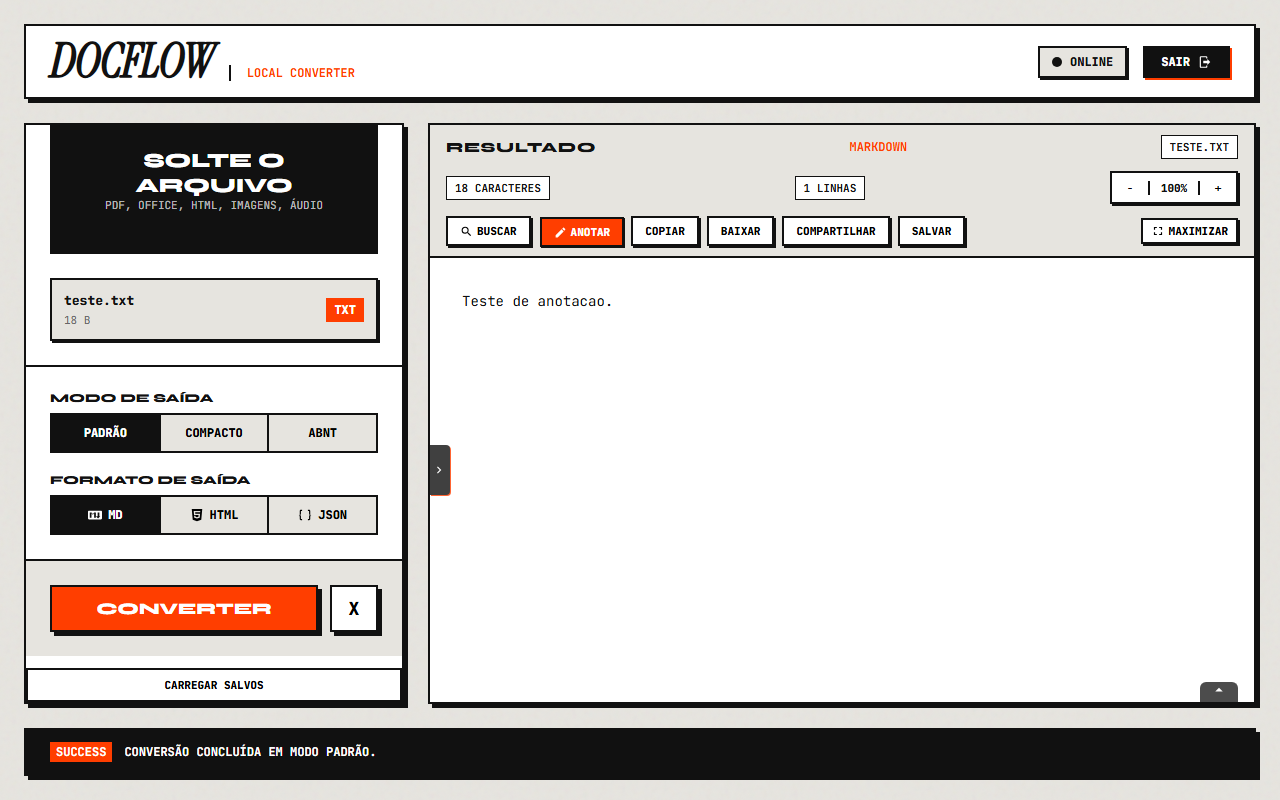
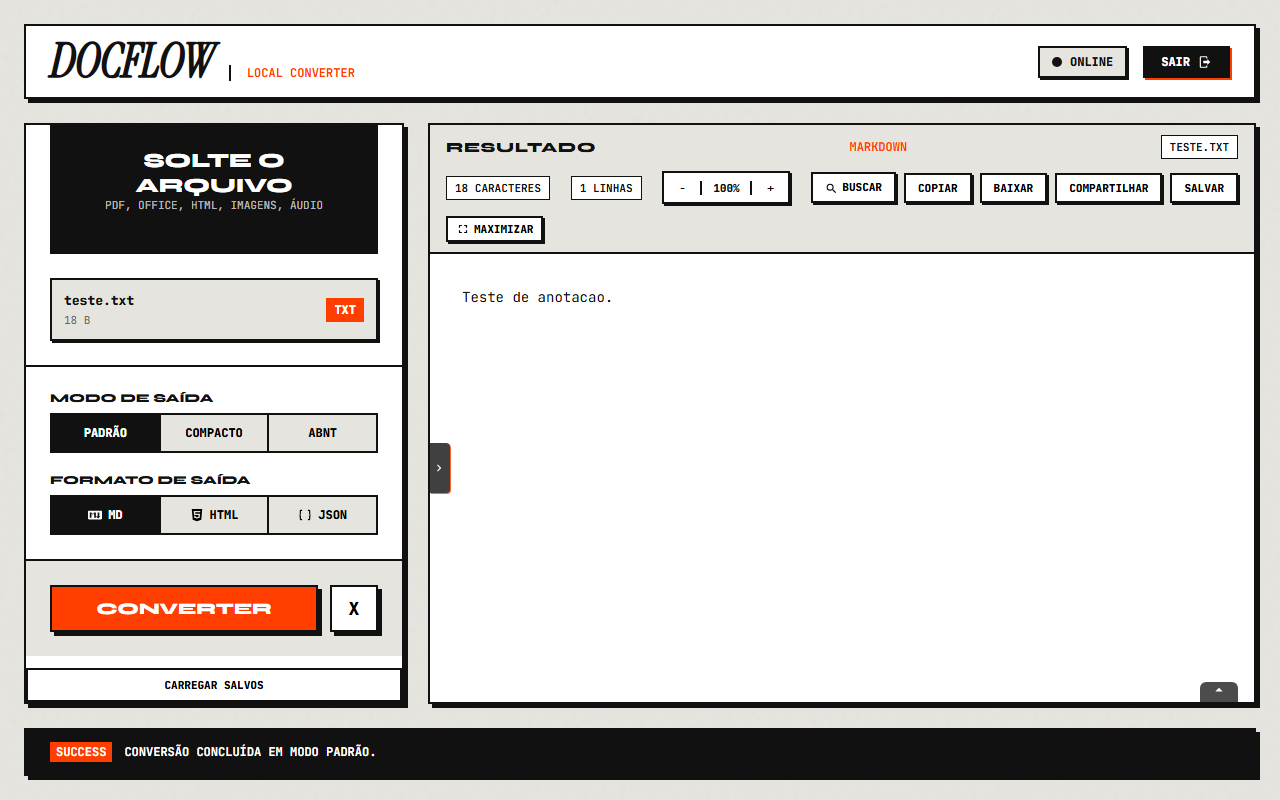
button

Changed region(s): [[0.3438, 0.1875, 0.9688, 0.4062]]

diff --git a/interface.html b/interface.html
@@ -2162,9 +2162,6 @@
                             <button class="tool-btn" id="searchToggleBtn" type="button" disabled title="Buscar no texto (Ctrl+F)">
                                 <svg width="13" height="13" viewBox="0 0 24 24" fill="currentColor" style="vertical-align:middle;margin-right:4px"><path d="M15.5 14h-.79l-.28-.27A6.471 6.471 0 0 0 16 9.5 6.5 6.5 0 1 0 9.5 16c1.61 0 3.09-.59 4.23-1.57l.27.28v.79l5 4.99L20.49 19l-4.99-5zm-6 0C7.01 14 5 11.99 5 9.5S7.01 5 9.5 5 14 7.01 14 9.5 11.99 14 9.5 14z"/></svg>Buscar
                             </button>
-                            <button class="tool-btn" id="annotToggleBtn" type="button" disabled title="Ativar/Desativar painel de anotações">
-                                <svg width="13" height="13" viewBox="0 0 24 24" fill="currentColor" style="vertical-align:middle;margin-right:4px"><path d="M3 17.25V21h3.75L17.81 9.94l-3.75-3.75L3 17.25zM20.71 7.04c.39-.39.39-1.02 0-1.41l-2.34-2.34c-.39-.39-1.02-.39-1.41 0l-1.83 1.83 3.75 3.75 1.83-1.83z"/></svg>Anotar
-                            </button>
                             <button class="tool-btn" id="copyBtn" type="button" disabled>Copiar</button>
                             <button class="tool-btn" id="downloadBtn" type="button" disabled>Baixar</button>
                             <button class="tool-btn" id="shareBtn" type="button" disabled>Compartilhar</button>
@@ -2716,7 +2713,15 @@
             downloadBtn.disabled = !enabled;
             shareBtn.disabled = !enabled;
             searchToggleBtn.disabled = !enabled;
-            if (annotToggleBtn) annotToggleBtn.disabled = !enabled;
+
+            if (annotCollapseTab) {
+                if (enabled) {
+                    annotCollapseTab.classList.add("visible");
+                } else {
+                    annotCollapseTab.classList.remove("visible");
+                    closeAnnotations();
+                }
+            }
 
             if (tocToggleHandle) {
                 tocToggleHandle.style.display = enabled ? "flex" : "none";
@@ -3519,7 +3524,6 @@
 
         // ===== BARRA DE ANOTAÇÃO FLUTUANTE =====
         const annotationToolbar  = document.getElementById("annotationToolbar");
-        const annotToggleBtn     = document.getElementById("annotToggleBtn");
         const annotCollapseTab   = document.getElementById("annotCollapseTab");
         const annotCollapseBtn   = document.getElementById("annotCollapseBtn");
         const annotCollapseIcon  = document.getElementById("annotCollapseIcon");
@@ -3550,7 +3554,6 @@
             annotationToolbar.classList.add("visible");
             if (annotCollapseTab) annotCollapseTab.classList.add("visible");
             updateCollapseIcon(true);
-            if (annotToggleBtn) annotToggleBtn.classList.add("active");
             requestAnimationFrame(() => {
                 if (penPaths.length > 0 || penMode) syncPenCanvas();
                 if (penPaths.length > 0) penCanvas.style.display = "block";
@@ -3562,34 +3565,19 @@
             if (!annotationToolbar) return;
             annotationMode = false;
             annotationToolbar.classList.remove("visible");
-            if (annotCollapseTab) annotCollapseTab.classList.remove("visible");
-            if (annotToggleBtn) annotToggleBtn.classList.remove("active");
-            penCanvas.style.display = "none";
+            if (penCanvas) penCanvas.style.display = "none";
             if (penMode) deactivatePen();
+            updateCollapseIcon(false);
             window.dispatchEvent(new Event('resize'));
-        }
-
-        if (annotToggleBtn) {
-            annotToggleBtn.addEventListener("click", () => {
-                if (annotationMode) closeAnnotations();
-                else openAnnotations();
-            });
         }
 
         if (annotCollapseBtn) {
             annotCollapseBtn.addEventListener("click", () => {
                 if (annotationToolbar.classList.contains("visible")) {
-                    annotationToolbar.classList.remove("visible");
-                    updateCollapseIcon(false);
+                    closeAnnotations();
                 } else {
-                    annotationToolbar.classList.add("visible");
-                    updateCollapseIcon(true);
-                    requestAnimationFrame(() => {
-                        if (penPaths.length > 0 || penMode) syncPenCanvas();
-                        if (penPaths.length > 0) penCanvas.style.display = "block";
-                    });
+                    openAnnotations();
                 }
-                window.dispatchEvent(new Event('resize'));
             });
         }
 

diff --git a/scratch/test_annot_tab.py b/scratch/test_annot_tab.py
@@ -24,29 +24,26 @@ async def main():
         await page.click("#convertBtn")
         await page.wait_for_timeout(2000)
 
-        # Check annotation toggle button is enabled
-        annot_btn = page.locator("#annotToggleBtn")
-        is_disabled = await annot_btn.get_attribute("disabled")
-        print(f"annotToggleBtn disabled: {is_disabled}")
+        # Check annotation collapse tab is visible after convert
+        tab_visible = await page.locator("#annotCollapseTab").is_visible()
+        print(f"Tab retrátil visível pós-conversão: {tab_visible}")
 
-        # Click annotation toggle to open the panel
-        await annot_btn.click()
+        # Click collapse tab to open the panel
+        await page.locator("#annotCollapseBtn").click()
         await page.wait_for_timeout(400)
 
         toolbar_visible = await page.locator("#annotationToolbar").is_visible()
-        tab_visible = await page.locator("#annotCollapseTab").is_visible()
         close_btn_exists = await page.locator("#closeAnnotToolbarBtn").count()
         icon_d = await page.locator("#annotCollapseIcon").get_attribute("d")
 
         print(f"Toolbar visível: {toolbar_visible}")
-        print(f"Tab retrátil visível: {tab_visible}")
         print(f"Botão X ainda existe: {close_btn_exists > 0}")
         print(f"Ícone da seta (deve ser down): {icon_d}")
 
         await page.screenshot(path="scratch/annot_open.png")
         print("Screenshot salvo: annot_open.png")
 
-        # Click collapse tab
+        # Click collapse tab again to collapse
         await page.locator("#annotCollapseBtn").click()
         await page.wait_for_timeout(400)
 